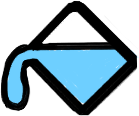
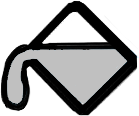
changement couleur du pinceau

Changed region(s): [[0.0288, 0.4138, 0.9209, 0.9052]]

diff --git a/KoudPinso/Assets/Scripts/DrawScripts/Drawable.cs b/KoudPinso/Assets/Scripts/DrawScripts/Drawable.cs
@@ -1,5 +1,6 @@
 using System.Collections;
 using UnityEngine;
+using UnityEngine.UI;
 using UnityEngine.EventSystems;
 using System.IO;
 using System.Collections.Generic;
@@ -44,6 +45,19 @@ using System.Collections.Generic;
         // MUST HAVE READ/WRITE enabled set in the file editor of Unity
         Sprite drawable_sprite;
         Texture2D drawable_texture;
+
+
+        public Sprite crayonSprite;
+        public Sprite MarqueurSprite;
+        public Sprite BucketSprite;
+
+        public GameObject outilButton;
+        public GameObject outilGomme;
+        public GameObject outilColor;
+
+        public GameObject crayonButton;
+        public GameObject marqueurButton;
+        public GameObject bucketButton;
 
         Vector2 previous_drag_position;
         Color[] clean_colours_array;
@@ -176,6 +190,9 @@ using System.Collections.Generic;
         {
             // PenBrush is the NAME of the method we want to set as our current brush
             current_brush = Gomme;
+            Color oldcolor = outilButton.GetComponent<Image>().color;
+            outilButton.GetComponent<Image>().color = new Color(oldcolor.r,oldcolor.g,oldcolor.b,0.2f);
+            outilGomme.GetComponent<Image>().color = new Color(1,1,1,1);
         }
 
 
@@ -187,25 +204,41 @@ using System.Collections.Generic;
         public void SetOutilToMarqueur()
         {
             current_brush = PenBrush;
+            outilButton.GetComponent<Image>().overrideSprite = MarqueurSprite;
+            
+            Color oldcolor = outilButton.GetComponent<Image>().color;
+            outilButton.GetComponent<Image>().color = new Color(oldcolor.r,oldcolor.g,oldcolor.b,1);
+            outilGomme.GetComponent<Image>().color = new Color(1,1,1,0.2f);
         }
 
         public void SetOutilToBucket()
         {
 
             current_brush = Bucket;
+            outilButton.GetComponent<Image>().overrideSprite = BucketSprite;
+
+            Color oldcolor = outilButton.GetComponent<Image>().color;
+            outilButton.GetComponent<Image>().color = new Color(oldcolor.r,oldcolor.g,oldcolor.b,1);            outilGomme.GetComponent<Image>().color = new Color(1,1,1,0.2f);
+
         }
 
         public void SetOutilToCrayon()
         {
 
             current_brush = Crayon;
+            outilButton.GetComponent<Image>().overrideSprite = crayonSprite;
+            
+            Color oldcolor = outilButton.GetComponent<Image>().color;
+            outilButton.GetComponent<Image>().color = new Color(oldcolor.r,oldcolor.g,oldcolor.b,1);
+            outilGomme.GetComponent<Image>().color = new Color(1,1,1,0.2f);
+
         }
 
 
         public void changeColorToBlue()
         {
-            Debug.Log("je change en bleu");
             Pen_Colour = Color.blue;
+
             if (current_brush == Crayon) {
                 SetOutilToCrayon();
             } else if (current_brush == Bucket) {
@@ -213,6 +246,14 @@ using System.Collections.Generic;
             } else { // PenBrush or Gomme
                 SetOutilToMarqueur();
             }
+            outilButton.GetComponent<Image>().color = Color.blue;
+            bucketButton.GetComponent<Image>().color = Color.blue;
+            crayonButton.GetComponent<Image>().color = Color.blue;
+            marqueurButton.GetComponent<Image>().color = Color.blue;
+
+
+
+
                 
         }
         public void changeColorToRed()
@@ -225,6 +266,12 @@ using System.Collections.Generic;
             } else { // PenBrush or Gomme
                 SetOutilToMarqueur();
             }
+            outilButton.GetComponent<Image>().color = Color.red;
+            
+            bucketButton.GetComponent<Image>().color = Color.red;
+            crayonButton.GetComponent<Image>().color = Color.red;
+            marqueurButton.GetComponent<Image>().color = Color.red;
+
         }
         public void changeColorToYellow()
         {
@@ -236,6 +283,12 @@ using System.Collections.Generic;
             } else { // PenBrush or Gomme
                 SetOutilToMarqueur();
             }
+            outilButton.GetComponent<Image>().color = Color.yellow;
+            
+            bucketButton.GetComponent<Image>().color = Color.yellow;
+            crayonButton.GetComponent<Image>().color = Color.yellow;
+            marqueurButton.GetComponent<Image>().color = Color.yellow;
+
         }
         public void changeColorToOrange()
         {
@@ -247,6 +300,12 @@ using System.Collections.Generic;
             } else { // PenBrush or Gomme
                 SetOutilToMarqueur();
             }
+            outilButton.GetComponent<Image>().color = new Color(249f/255,101f/255,21f/255,1);
+            
+            bucketButton.GetComponent<Image>().color = new Color(249f/255,101f/255,21f/255,1);
+            crayonButton.GetComponent<Image>().color = new Color(249f/255,101f/255,21f/255,1);
+            marqueurButton.GetComponent<Image>().color = new Color(249f/255,101f/255,21f/255,1);
+
         }
         public void changeColorToVert()
         {
@@ -258,6 +317,10 @@ using System.Collections.Generic;
             } else { // PenBrush or Gomme
                 SetOutilToMarqueur();
             }
+            outilButton.GetComponent<Image>().color =Color.green;
+            bucketButton.GetComponent<Image>().color = Color.green;
+            crayonButton.GetComponent<Image>().color = Color.green;
+            marqueurButton.GetComponent<Image>().color = Color.green;
         }
         public void changeColorToViolet()
         {
@@ -269,6 +332,11 @@ using System.Collections.Generic;
             } else { // PenBrush or Gomme
                 SetOutilToMarqueur();
             }
+            outilButton.GetComponent<Image>().color =new Color(199f/255,36f/255,177f/255,1);
+            bucketButton.GetComponent<Image>().color = new Color(199f/255,36f/255,177f/255,1);
+            crayonButton.GetComponent<Image>().color = new Color(199f/255,36f/255,177f/255,1);
+            marqueurButton.GetComponent<Image>().color = new Color(199f/255,36f/255,177f/255,1);
+
         }
         public void changeColorToNoir()
         {
@@ -280,6 +348,11 @@ using System.Collections.Generic;
             } else { // PenBrush or Gomme
                 SetOutilToMarqueur();
             }
+            outilButton.GetComponent<Image>().color = Color.black;
+            bucketButton.GetComponent<Image>().color = Color.black;
+            crayonButton.GetComponent<Image>().color = Color.black;
+            marqueurButton.GetComponent<Image>().color = Color.black;
+
         }
         public void changeColorToCyan()
         {
@@ -291,6 +364,11 @@ using System.Collections.Generic;
             } else { // PenBrush or Gomme
                 SetOutilToMarqueur();
             }
+            outilButton.GetComponent<Image>().color = Color.cyan;
+            bucketButton.GetComponent<Image>().color = Color.cyan;
+            crayonButton.GetComponent<Image>().color = Color.cyan;
+            marqueurButton.GetComponent<Image>().color = Color.cyan;
+
         }
 //////////////////////////////////////////////////////////////////////////////
 
@@ -614,7 +692,8 @@ using System.Collections.Generic;
             Path=Application.persistentDataPath + "/../test.png";
             drawable_sprite = this.GetComponent<SpriteRenderer>().sprite;
             drawable_texture = drawable_sprite.texture;
-
+            changeColorToNoir();
+        
             // Initialize clean pixels to use
             clean_colours_array = new Color[(int)drawable_sprite.rect.width * (int)drawable_sprite.rect.height];
             for (int x = 0; x < clean_colours_array.Length; x++)
